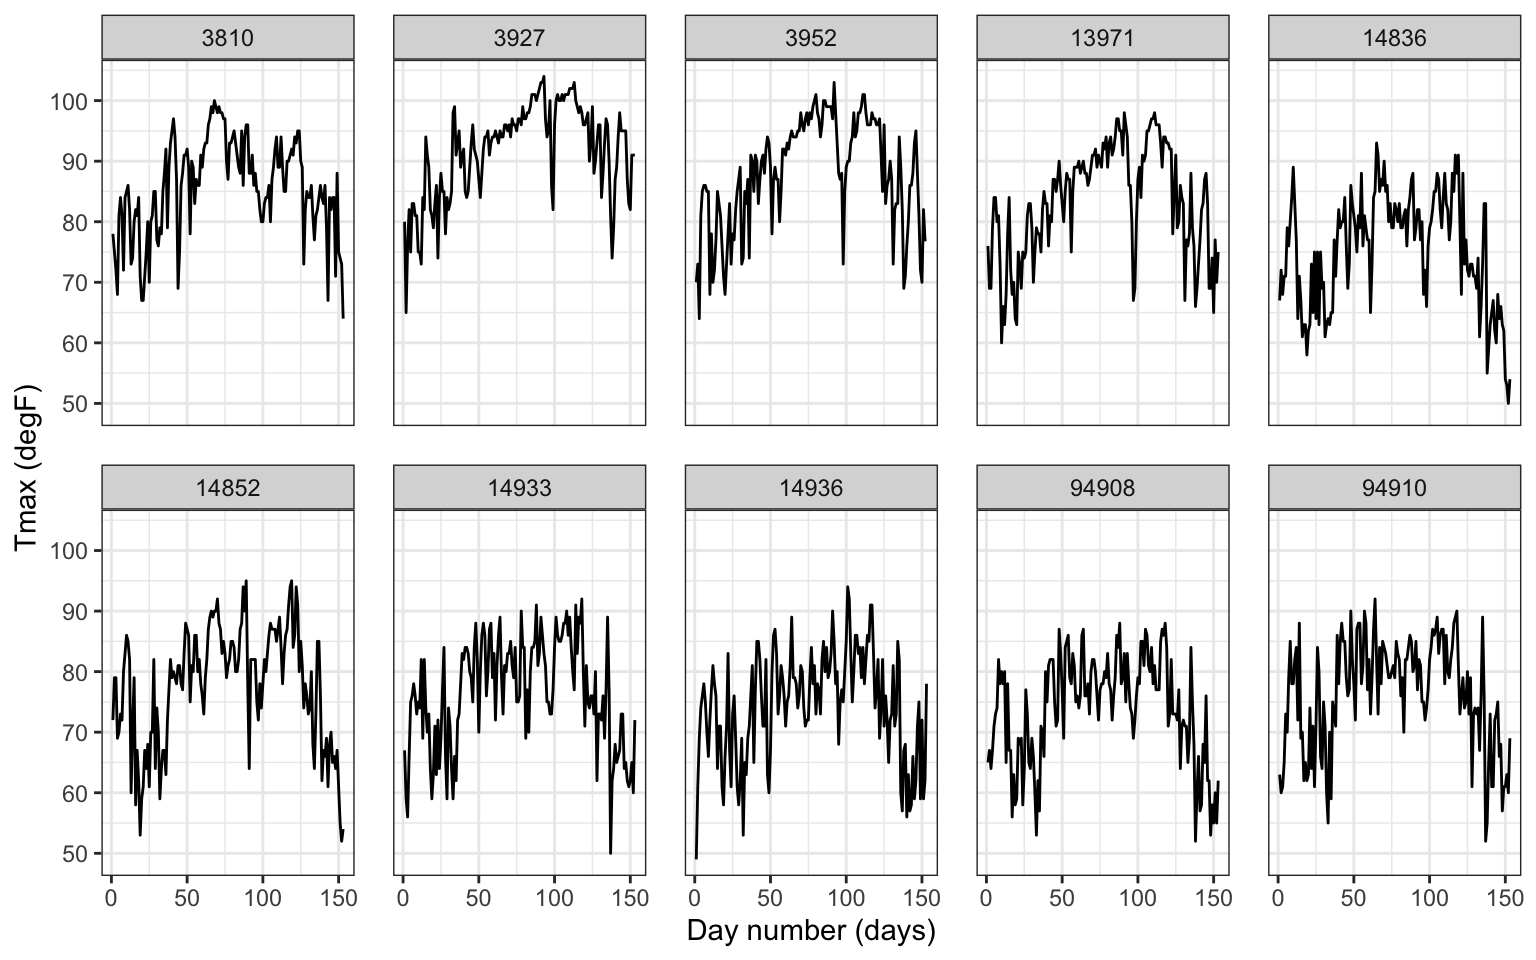
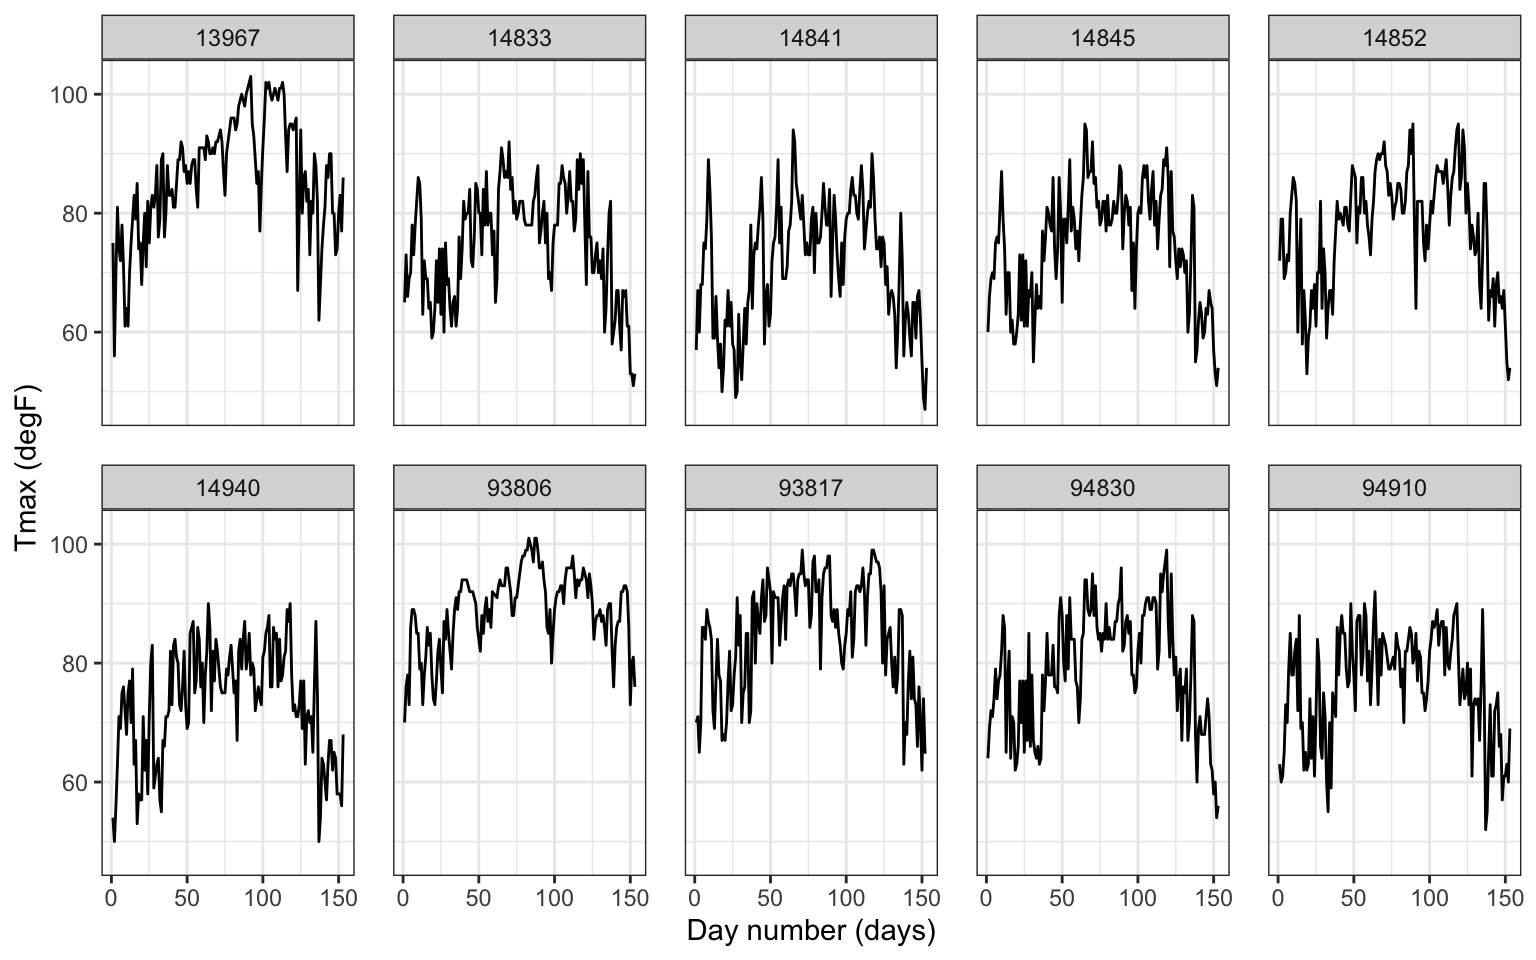
May 19th

diff --git a/Week11.html b/Week11.html
@@ -293,9 +293,6 @@ $(document).ready(function () {
 <li>
   <a href="Extra2.html">Extra 2</a>
 </li>
-<li>
-  <a href="Extra3.html">Extra 3</a>
-</li>
       </ul>
       <ul class="nav navbar-nav navbar-right">
         
@@ -401,13 +398,13 @@ NOAA_plot2</code></pre>
 UIDs_sub &lt;- sample(UIDs, 10)                # sample 10 IDs
 Tmax_sub &lt;- filter(Tmax, id %in% UIDs_sub)  # subset data
 head(Tmax_sub)</code></pre>
-<pre><code>##   julian year month day   id  z proc      lat       lon       date t
-## 1 728050 1993     5   1 3810 78 Tmax 35.73333 -81.38333 1993-05-01 1
-## 2 728051 1993     5   2 3810 75 Tmax 35.73333 -81.38333 1993-05-02 2
-## 3 728052 1993     5   3 3810 72 Tmax 35.73333 -81.38333 1993-05-03 3
-## 4 728053 1993     5   4 3810 68 Tmax 35.73333 -81.38333 1993-05-04 4
-## 5 728054 1993     5   5 3810 81 Tmax 35.73333 -81.38333 1993-05-05 5
-## 6 728055 1993     5   6 3810 84 Tmax 35.73333 -81.38333 1993-05-06 6</code></pre>
+<pre><code>##   julian year month day    id  z proc  lat   lon       date t
+## 1 728050 1993     5   1 13967 75 Tmax 35.4 -97.6 1993-05-01 1
+## 2 728051 1993     5   2 13967 56 Tmax 35.4 -97.6 1993-05-02 2
+## 3 728052 1993     5   3 13967 70 Tmax 35.4 -97.6 1993-05-03 3
+## 4 728053 1993     5   4 13967 81 Tmax 35.4 -97.6 1993-05-04 4
+## 5 728054 1993     5   5 13967 74 Tmax 35.4 -97.6 1993-05-05 5
+## 6 728055 1993     5   6 13967 72 Tmax 35.4 -97.6 1993-05-06 6</code></pre>
 <p>Next, time-series is plotted.</p>
 <pre class="r"><code>## ------------------------------------------------------------------------
 TmaxTS &lt;- ggplot(Tmax_sub) +
@@ -426,6 +423,13 @@ TmaxTS</code></pre>
 number="4">
 <h1><span class="header-section-number">4</span> Spatio-Temporal
 Processess Animation</h1>
+<p>We have the locations of 10572 cases of non-specific
+gastro-intestinal disease in the county of Hampshire, UK, as reported to
+NHS Direct. Each location corresponds to the post-coded location of the
+residential address of the person making the call to NHS Direct.</p>
+<p>The data include all such reported cases between 1 January 2001 and
+31 December 2003. The unit of time is 1 day, with day 1 corresponding to
+1 January 2001.</p>
 <pre class="r"><code>library(stpp)</code></pre>
 <pre><code>## Warning in rgl.init(initValue, onlyNULL): X11 error: GLXBadContext</code></pre>
 <pre><code>## Warning: &#39;rgl.init&#39; failed, will use the null device.

diff --git a/Week1.html b/Week1.html
@@ -13,7 +13,7 @@
 
 <title>Week 1: Data Transformation – RDS – dplyr tidyverse</title>
 
-<script src="site_libs/header-attrs-2.18/header-attrs.js"></script>
+<script src="site_libs/header-attrs-2.26/header-attrs.js"></script>
 <script src="site_libs/jquery-3.6.0/jquery-3.6.0.min.js"></script>
 <meta name="viewport" content="width=device-width, initial-scale=1" />
 <link href="site_libs/bootstrap-3.3.5/css/cosmo.min.css" rel="stylesheet" />
@@ -292,9 +292,6 @@ $(document).ready(function () {
 </li>
 <li>
   <a href="Extra2.html">Extra 2</a>
-</li>
-<li>
-  <a href="Extra3.html">Extra 3</a>
 </li>
       </ul>
       <ul class="nav navbar-nav navbar-right">

diff --git a/index.html b/index.html
@@ -13,7 +13,7 @@
 
 <title>MAST90122 Lab</title>
 
-<script src="site_libs/header-attrs-2.18/header-attrs.js"></script>
+<script src="site_libs/header-attrs-2.26/header-attrs.js"></script>
 <script src="site_libs/jquery-3.6.0/jquery-3.6.0.min.js"></script>
 <meta name="viewport" content="width=device-width, initial-scale=1" />
 <link href="site_libs/bootstrap-3.3.5/css/cosmo.min.css" rel="stylesheet" />
@@ -292,9 +292,6 @@ $(document).ready(function () {
 </li>
 <li>
   <a href="Extra2.html">Extra 2</a>
-</li>
-<li>
-  <a href="Extra3.html">Extra 3</a>
 </li>
       </ul>
       <ul class="nav navbar-nav navbar-right">
